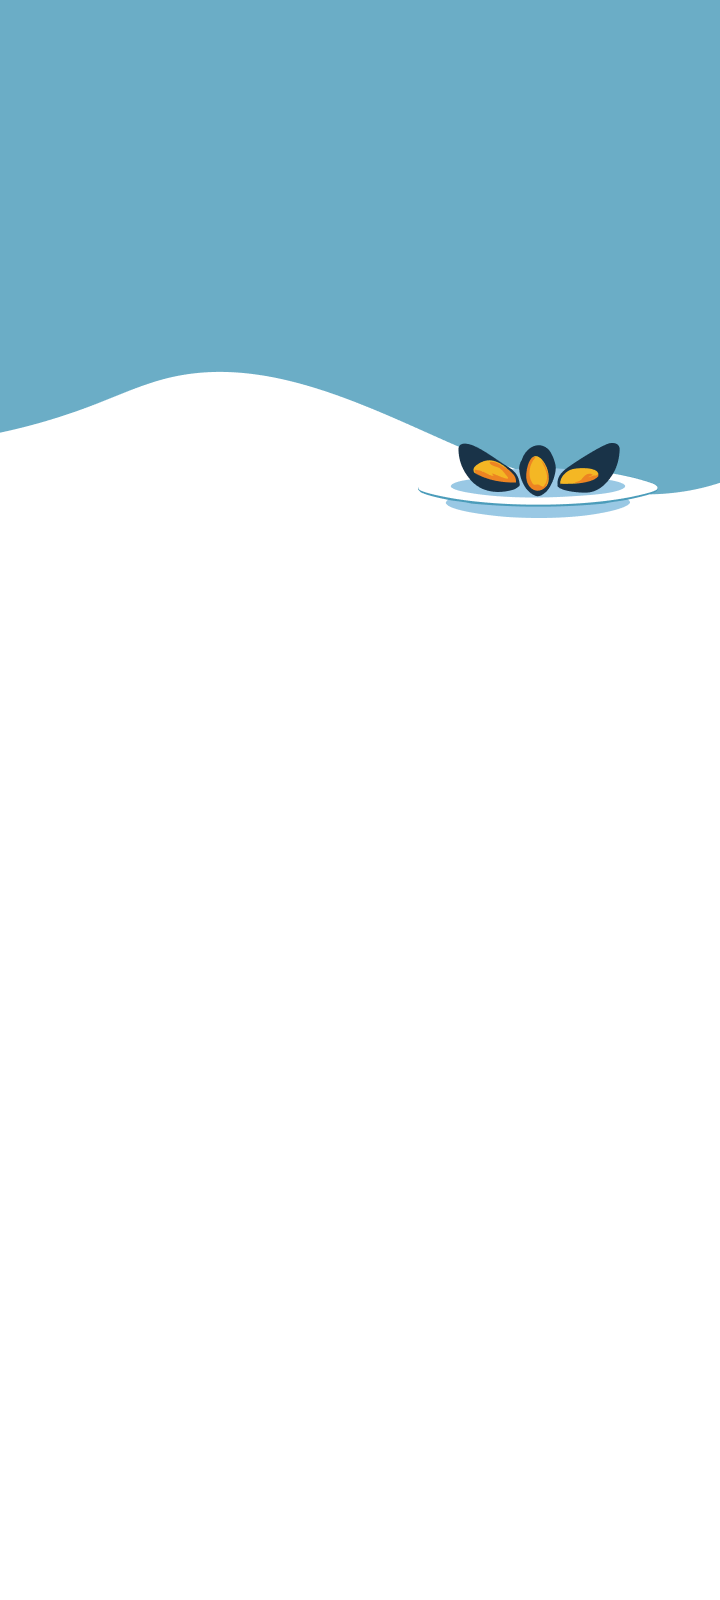
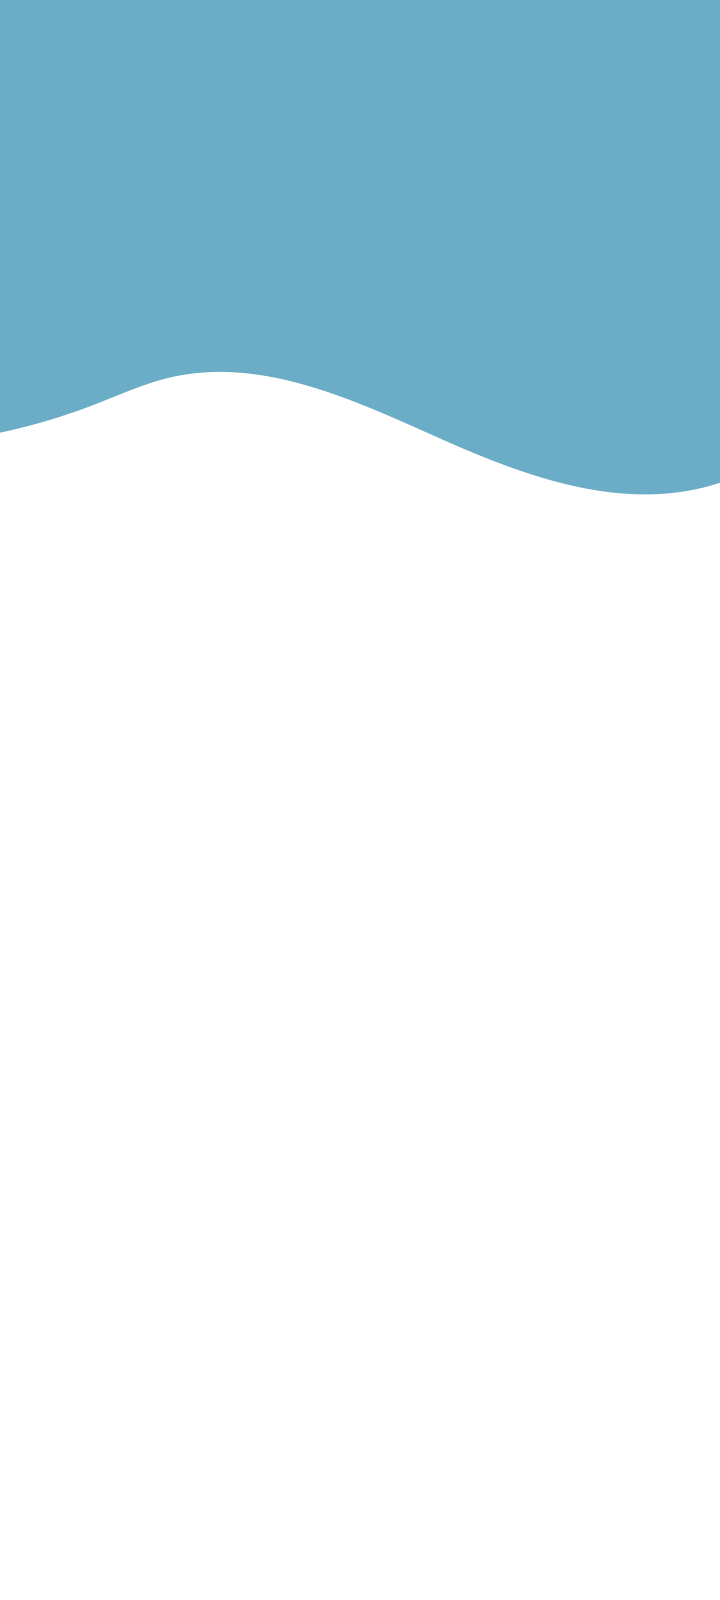
Ajustement page de maillot. Enhance FinalPage: add dynamic maillot images, improve layout and styling, and adjust z-index for better layering

Changed region(s): [[0.6111, 0.2812, 0.9167, 0.3438]]

diff --git a/lavoixdunord/frontend/src/finalPage/finalPage.js b/lavoixdunord/frontend/src/finalPage/finalPage.js
@@ -1,10 +1,18 @@
 import React from 'react';
 import './finalPage.css';
 import { useNavigate } from "react-router-dom";
+import useBasename from '../hooks/useBasenameHook';
 
 const FinalPage = () => {
+    const basename = useBasename()
     const navigate = useNavigate(); // Initialisation de navigate
     const gameLink = "https://hyblab.polytech.univ-nantes.fr/lavoixdunord"; // Lien de votre jeu
+
+    const maillot_images = [
+        `${basename}images/illustrations/maillot_blanc.png`,
+        `${basename}images/illustrations/maillot_vert.png`,
+        `${basename}images/illustrations/mallot_jaune.png`,
+    ]
 
     // Fonction pour partager avec l'API Web Share
     const handleShare = () => {
@@ -23,22 +31,38 @@ const FinalPage = () => {
 
     return (
         <div className="background_final">
-            <div class="arbre"></div>
-            <div className="text-center p-4 mt-84">
-                <h1 className="text-white mb-5">MERCI</h1>
-                <div className='my-5'>&nbsp;</div>
-                <div className="fs-6">
-                    <p><i><b>Merci d’avoir participé à cette aventure unique. </b></i></p>
-                    <p> À bientôt pour de nouveaux défis, et souvenez-vous : </p>
-                    <p><i><b>  La route du savoir est aussi passionnante que celle des cyclistes.</b></i></p>
+            <div class="arbre" style={{ zIndex: 0 }}></div>
+            <div className="text-center mt-76">
+                <h1 className="text-white mb-4">MERCI</h1>
+                <div className='p-4'>
+                    <div className='d-flex flex-row justify-content-between my-3 px-3 w-100'>
+                        {maillot_images.map(
+                            (link) => (
+                                <img src={link}
+                                    alt="maillot"
+                                    className="maillot_icon"
+                                    style={{
+                                        height: '80px', objectFit: 'scale-down',
+                                    }} />
+                            )
+                        )}
+
+                    </div>
+
+                    <div className="">
+                        <p><i><b>Merci d’avoir participé à cette aventure unique. </b></i></p>
+                        <p> À bientôt pour de nouveaux défis, et souvenez-vous : </p>
+                        <p><i><b>  La route du savoir est aussi passionnante que celle des cyclistes.</b></i></p>
+                    </div>
+
+                    <button className="btn btn-outline-dark border-2 fw-bold my-2" onClick={() => navigate("/")}>RÉESSAYER</button>
+
+                    <p><i><b>Partagez ce jeu avec vos proches !</b></i></p>
+
+                    {/* Bouton pour partager via l'API Web Share */}
+                    <button className="btn btn-outline-dark border-2 fw-bold my-2" onClick={handleShare}>PARTAGER</button>
+
                 </div>
-
-                <button className="btn btn-outline-primary fw-bold my-2" onClick={() => navigate("/")}>RÉESSAYER</button>
-
-                <p><i><b>Partagez ce jeu avec vos proches !</b></i></p>
-
-                {/* Bouton pour partager via l'API Web Share */}
-                <button className="btn btn-outline-info fw-bold my-2" onClick={handleShare}>PARTAGER</button>
             </div>
         </div>
     );

diff --git a/lavoixdunord/frontend/src/finalPage/finalPage.css b/lavoixdunord/frontend/src/finalPage/finalPage.css
@@ -2,5 +2,9 @@
     background: url('finalPage.png');
     background-size: 100% 100%;
     position: relative;
+
+    p {
+        margin-bottom: 4px;
+    }
 }
 
